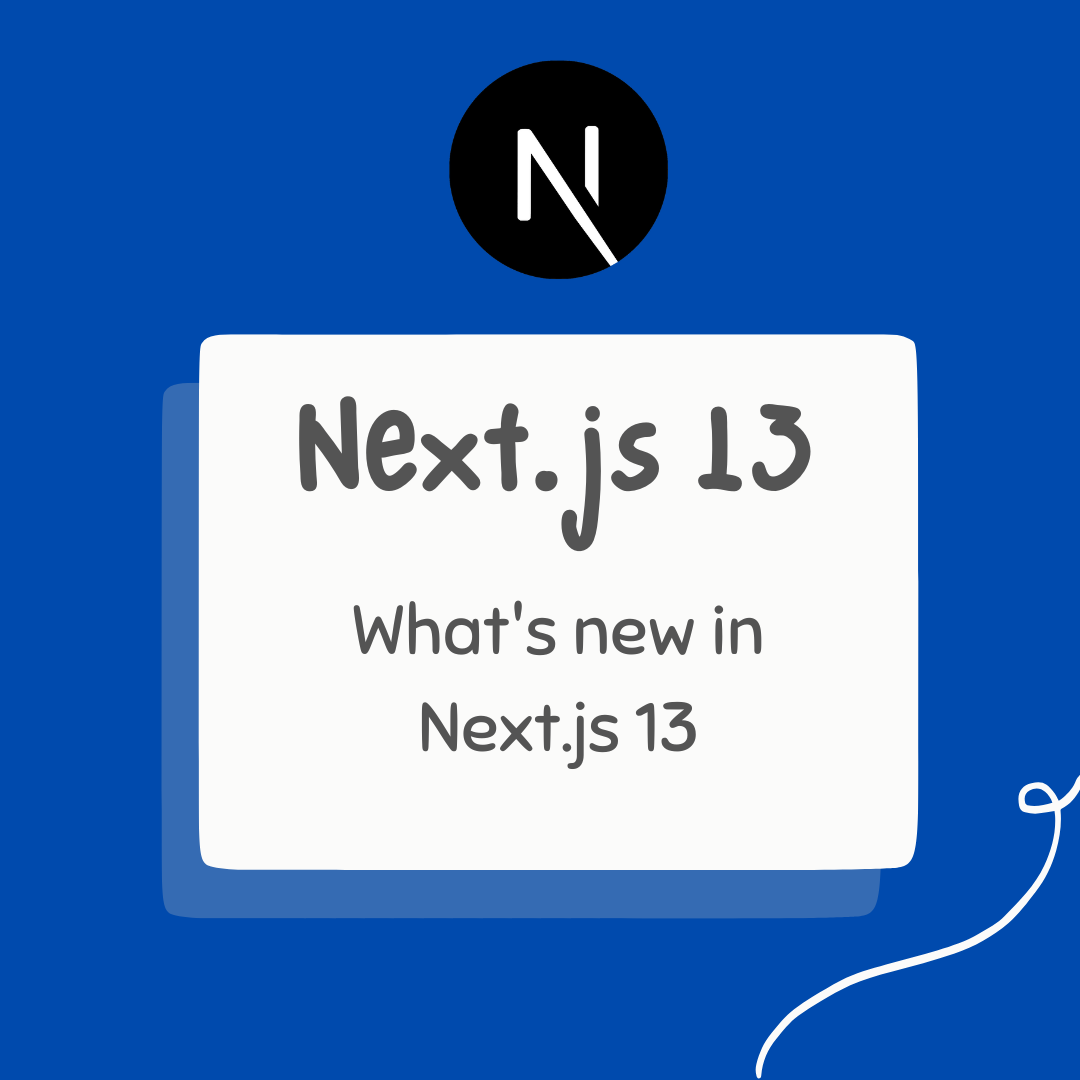
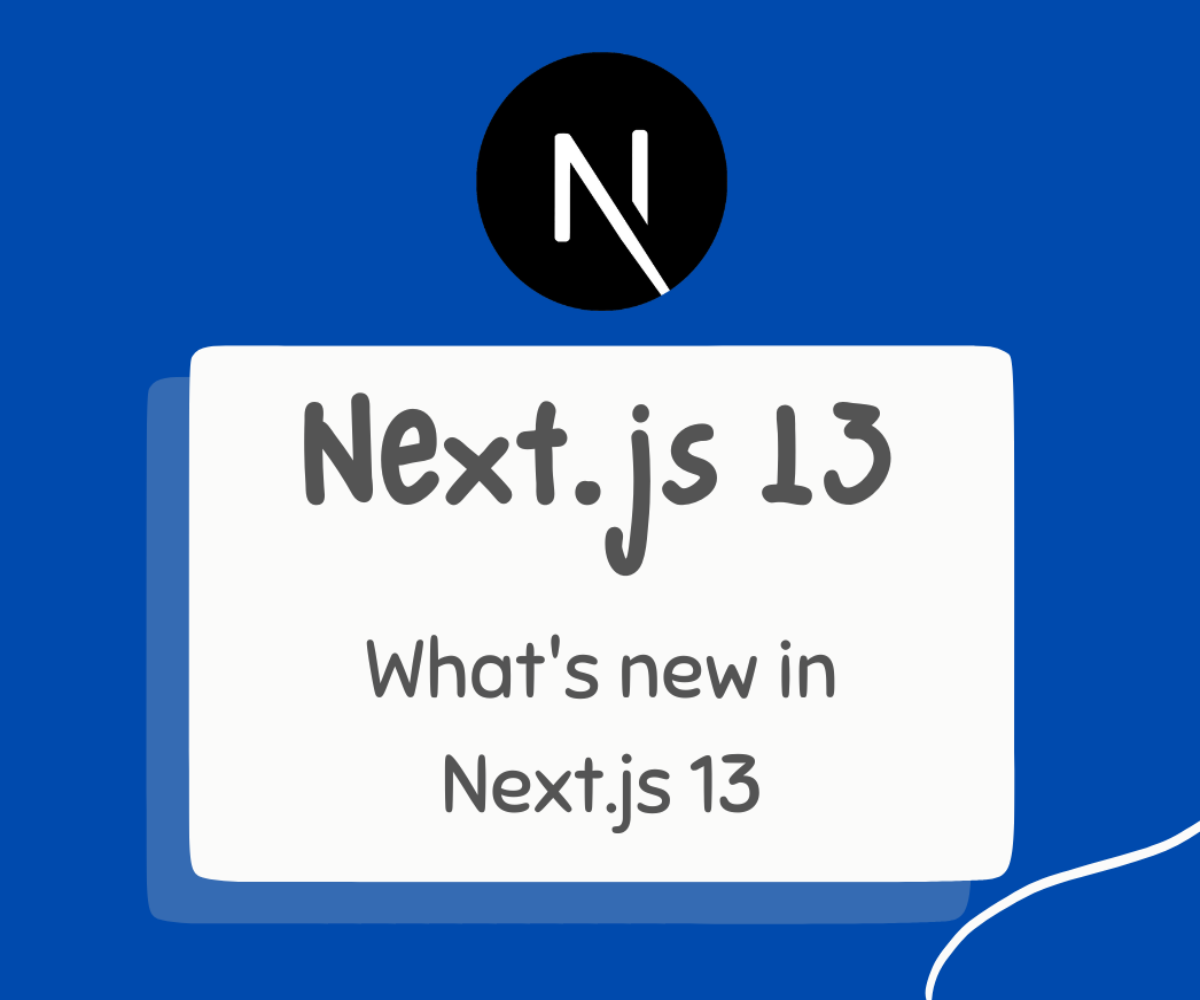
Next.js fixes (#385)
* add action deploy command

* update yml file

* Changed image size and a minor fix in description.

* Delete deploy.yml

Changed region(s): [[0.1222, 0.062, 0.9167, 1.0], [0.9167, 0.713, 1.0, 0.868], [0.4278, 0.031, 0.5194, 0.093]]

diff --git a/data/blogs/whats-new-in-nextjs-13.md b/data/blogs/whats-new-in-nextjs-13.md
@@ -106,7 +106,7 @@ Next.js 13+ provides a second params to fetch function to decide whether we want
     //Default, Similar to 'getStaticProps' of previous versions.
     fetch(API_URL, { cache: 'force-cache' })
 
-    // Similar to 'getStaticPaths' with the 'revalidate' option of previous versions.
+    // It re-renders already built files after every 10 seconds.
     fetch(API_URL, { next: { revalidate: 10 } });
 
     // Similar to 'getServerSideProps' of previous versions.
